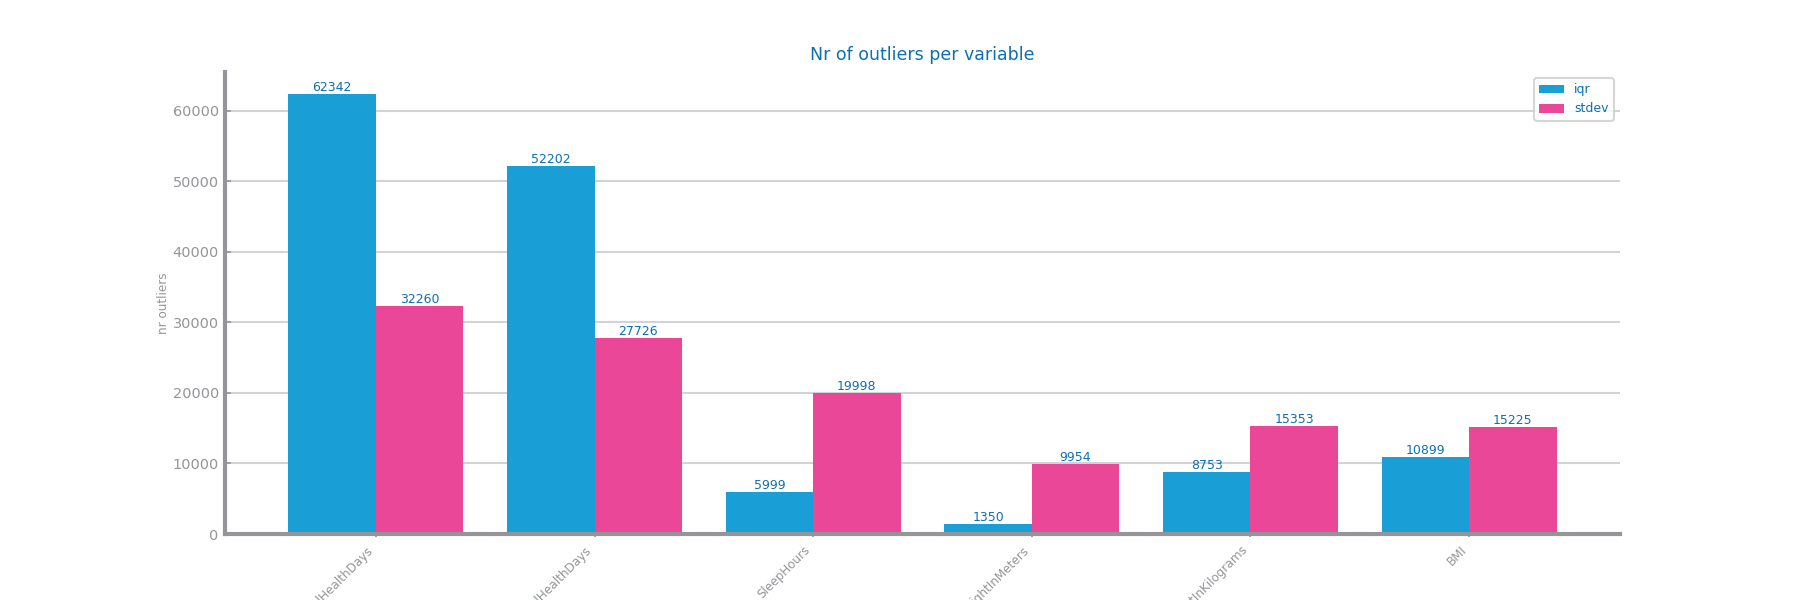
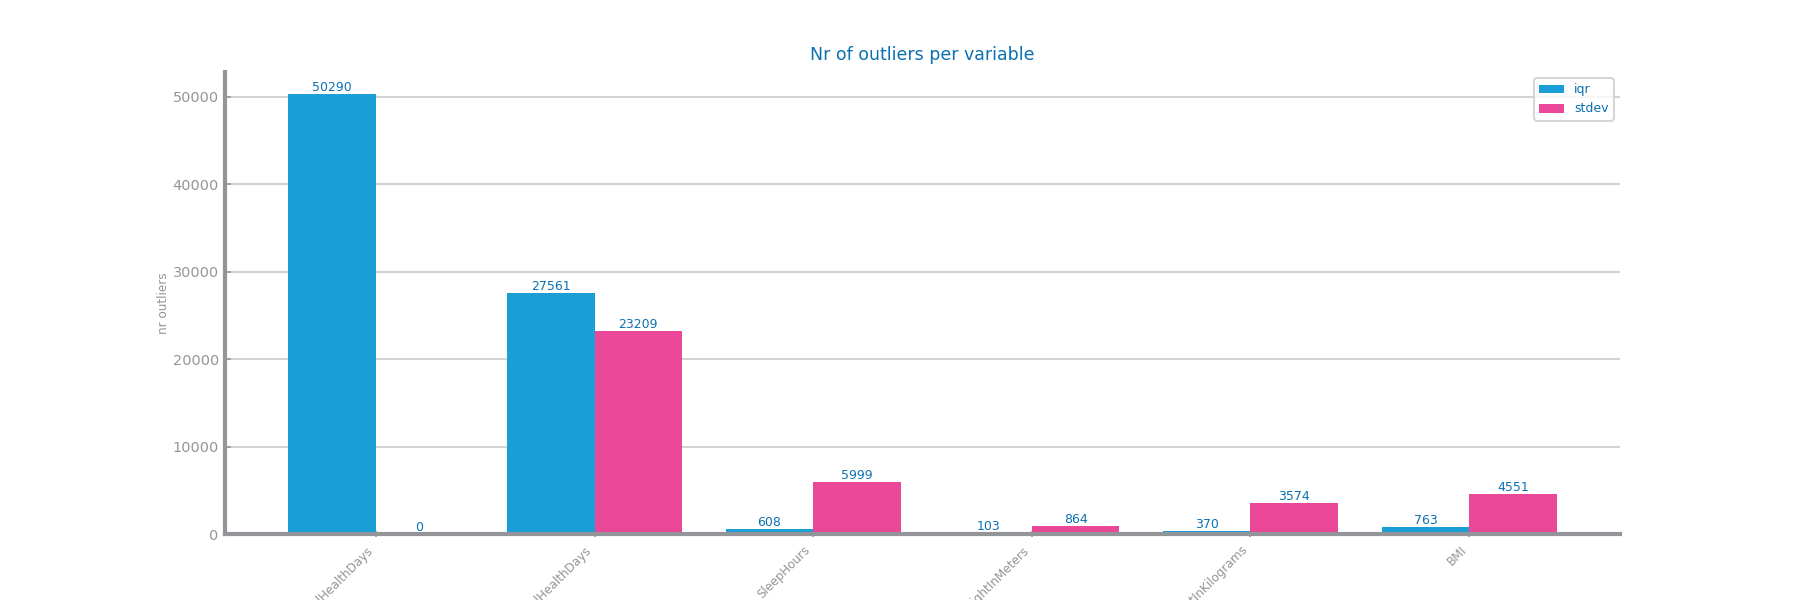
global boxplot

diff --git a/set1.py b/set1.py
@@ -14,12 +14,12 @@ from profiling.distribution import Distribution
 # ---------------------------------------
 
 # Load Data
-filename = "class_pos_covid.csv"
+filename = "data/class_pos_covid.csv"
 file_tag = "pos_covid"
 data: DataFrame = read_csv(filename, na_values="") 
 
 
-
+'''
 # -------------------- #
 # -- Dimensionality -- #
 # -------------------- #
@@ -88,9 +88,9 @@ encoded_data = sparsity.encode_pos_covid()
 print(encoded_data)
 print('Encoded Data Shape: ', encoded_data.shape) #aumentou dummification acho
 
-sparsity.correlation_analysis(encoded_data)
+#sparsity.correlation_analysis(encoded_data)
 
-
+'''
 
 # ------------------ #
 # -- Distribution -- #
@@ -109,15 +109,15 @@ distribution = Distribution(filename, file_tag, data)
 distribution.global_boxplot()
 
 # Single Variable Boxplots
-distribution.boxplots()
+#distribution.boxplots()
 
 # Outliers Study
-distribution.num_standart_outliers_per_variable()
+#distribution.num_standart_outliers_per_variable()
 
 ### default ainda
-NR_STDEV:   int   = 2
-IQR_FACTOR: float = 1.5
-distribution.num_outliers_per_variable(NR_STDEV, IQR_FACTOR) #testar varios valores??
+#NR_STDEV:   int   = 3
+#IQR_FACTOR: float = 3.5
+#distribution.num_outliers_per_variable(NR_STDEV, IQR_FACTOR) #testar varios valores??
 
 
 # Histograms - nao esta a carregar need help
@@ -125,7 +125,7 @@ distribution.num_outliers_per_variable(NR_STDEV, IQR_FACTOR) #testar varios valo
 #distribution.histograms_symbolic_variables()
 
 # Class Distribution
-distribution.class_distribution("CovidPos")
+#distribution.class_distribution("CovidPos")
 
 
 

diff --git a/profiling/sparsity.py b/profiling/sparsity.py
@@ -75,7 +75,9 @@ class Sparsity:
     
     def encode_pos_covid(self):
         encoded_data = self.data.copy()
-        
+        print(self.data)
+
+
         encoding = {
             # Symbolic (Ordinal)
             "GeneralHealth": {"Poor": 0, "Fair": 1, "Good": 2, "Very good": 3, "Excellent": 4},
